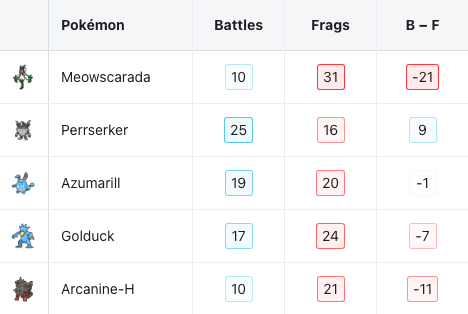
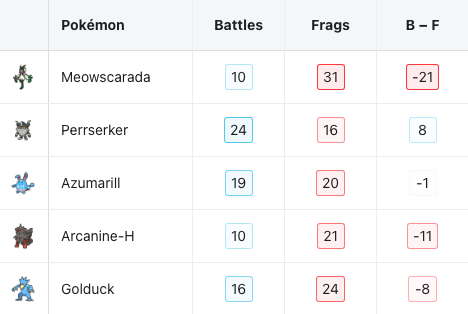
redo tower grunts

diff --git a/site/src/data/guide/sabrina.ts b/site/src/data/guide/sabrina.ts
@@ -603,7 +603,7 @@ const _box9 = getBox({
       nature: "Adamant",
       ability: "Mold Breaker",
       item: "Soft Sand",
-      moves: ["Brick Break", "Iron Head", "Rapid Spin", "Rock Tomb"],
+      moves: ["Brick Break", "Mud-Slap", "Rapid Spin", "Rock Tomb"],
     },
     Incineroar: {
       nature: "Lonely",
@@ -654,8 +654,8 @@ export const pokemonTowerChannelerRuthBattle: Moment = {
             branches: [
               {
                 branches: [
-                  "93% → Meowscarada U-Turn Grimmsnarl",
-                  "7% → Meowscarada U-Turn Grimmsnarl (to 0)",
+                  "86% → Meowscarada U-Turn Grimmsnarl",
+                  "14% → Meowscarada U-Turn Grimmsnarl (to 0)",
                 ],
               },
             ],
@@ -664,7 +664,7 @@ export const pokemonTowerChannelerRuthBattle: Moment = {
         frags: { Meowscarada: 2 },
       },
       {
-        line: "93% → Meowscarada U-Turn Grimmsnarl",
+        line: "86% → Meowscarada U-Turn Grimmsnarl",
         matchups: [
           {
             matchup: ["Grimmsnarl", "Cresselia"],
@@ -683,9 +683,9 @@ export const pokemonTowerChannelerRuthBattle: Moment = {
             matchup: ["Drifblim", "Cresselia"],
             turns: [
               [
+                { player: "{p:Excadrill} switch to {p:Perrserker}" },
                 { opponent: "{o:Drifblim} Calm Mind" },
                 { opponent: "{o:Cresselia} Moonblast {p:Incineroar} to {+:99}" },
-                { player: "{p:Excadrill} Iron Head {o:Cresselia} to {-:175}" },
                 { player: "{p:Incineroar} Darkest Lariat {o:Drifblim} to {=:0}" },
                 { opponent: "{o:Drifblim} fainted" },
               ],
@@ -695,8 +695,12 @@ export const pokemonTowerChannelerRuthBattle: Moment = {
             matchup: ["Cresselia"],
             turns: [
               [
+                { player: "{p:Perrserker} Fake Out {o:Cresselia} to {-:199}" },
+                { opponent: "{o:Cresselia} flinched" },
+                { player: "{p:Incineroar} Darkest Lariat {o:Cresselia} to {-:65}" },
+              ],
+              [
                 { opponent: "{o:Cresselia} Moonblast {p:Incineroar} to {+:9}" },
-                { player: "{p:Excadrill} Iron Head {o:Cresselia} to {-:134}" },
                 { player: "{p:Incineroar} Darkest Lariat {o:Cresselia} to {=:0}" },
                 { opponent: "{o:Cresselia} fainted" },
               ],
@@ -706,7 +710,7 @@ export const pokemonTowerChannelerRuthBattle: Moment = {
         frags: { Excadrill: 1, Incineroar: 2 },
       },
       {
-        line: "7% → Meowscarada U-Turn Grimmsnarl (to 0)",
+        line: "14% → Meowscarada U-Turn Grimmsnarl (to 0)",
         matchups: [
           {
             matchup: ["Grimmsnarl", "Cresselia"],
@@ -767,8 +771,8 @@ const _box10 = getBox({
     Runerigus: {
       nature: "Bold",
       ability: "Shadow Shield",
-      item: "Rindo Berry",
-      moves: ["Disable", "Scary Face", "Shadow Ball", "Shadow Sneak"],
+      item: "Chesto Berry",
+      moves: ["Rest", "Scary Face", "Shadow Ball", "Shadow Sneak"],
     },
     Golduck: {
       nature: "Rash",
@@ -860,7 +864,7 @@ const _box11 = getBox({
       moves: ["Accelerock", "Flamethrower", "Flare Blitz", "Rock Slide"],
     },
     Clodsire: {
-      nature: "Impish",
+      nature: "Careful",
       ability: "Water Absorb",
       item: "Hard Stone",
       moves: ["Bulldoze", "Rock Slide", "Rock Tomb", "Tail Whip"],
@@ -872,7 +876,7 @@ const _box11 = getBox({
       moves: ["Cut", "Flower Trick", "Knock Off", "U-Turn"],
     },
     Tentacruel: {
-      nature: "Calm",
+      nature: "Timid",
       ability: "Clear Body",
       item: "Sitrus Berry",
       moves: ["Acid Spray", "Icy Wind", "Poison Jab", "Scald"],
@@ -933,7 +937,7 @@ export const pokemonTowerGrunt1Battle: Moment = {
               [
                 { player: "{p:Meowscarada} U-Turn {o:Arctovish} to {-:133}" },
                 { player: "{p:Meowscarada} switch to {p:Tentacruel}" },
-                { opponent: "{o:Arctovish} Fishious Rend {p:Tentacruel} to {+:95}" },
+                { opponent: "{o:Arctovish} Fishious Rend {p:Tentacruel} (non-crit) to {+:95}" },
               ],
               [
                 { player: "{p:Tentacruel} switch to {p:Meowscarada}" },
@@ -977,19 +981,13 @@ const _box12 = getBox({
       nature: "Adamant",
       ability: "Mold Breaker",
       item: "Hard Stone",
-      moves: ["Brick Break", "Earthquake", "Iron Head", "Rock Slide"],
+      moves: ["Brick Break", "Earthquake", "Rock Slide", "Rock Tomb"],
     },
-    Golduck: {
-      nature: "Naive",
-      ability: "Neuroforce",
-      item: "Mystic Water",
-      moves: ["Brick Break", "Flip Turn", "Ice Beam", "Psychic"],
-    },
-    Perrserker: {
+    Golisopod: {
       nature: "Adamant",
-      ability: "Battle Armor",
-      item: "Chople Berry",
-      moves: ["Fake Out", "Growl", "Metal Burst", "U-Turn"],
+      ability: "Emergency Exit",
+      item: "Silver Powder",
+      moves: ["First Impress.", "Aerial Ace", "Rock Tomb", "Sucker Punch"],
     },
     Meowscarada: {
       nature: "Adamant",
@@ -998,7 +996,7 @@ const _box12 = getBox({
       moves: ["Brick Break", "Cut", "Play Rough", "Thunder Punch"],
     },
   },
-  team: ["Excadrill", "Golduck", "Perrserker", "Meowscarada"],
+  team: ["Excadrill", "Golisopod", "Meowscarada"],
 });
 
 export const pokemonTowerGrunt2Battle: Moment = {
@@ -1029,21 +1027,10 @@ export const pokemonTowerGrunt2Battle: Moment = {
             matchup: ["Braviary"],
             turns: [
               [
-                { player: "{p:Excadrill} switch to {p:Golduck}" },
-                { player: "{p:Golduck} Spikes to {=:144}" },
-                { opponent: "{o:Braviary} Close Combat {p:Golduck} to {+:48}" },
-              ],
-              [
-                { player: "{p:Golduck} Flip Turn {o:Braviary} to {-:129}" },
-                { player: "{p:Golduck} switch to {p:Perrserker}" },
-                { player: "{p:Perrserker} Spikes to {=:154}" },
-                { opponent: "{o:Braviary} Brave Bird {p:Perrserker} to {+:102}" },
-                { opponent: "{o:Braviary} recoil to {-:115}" },
-              ],
-              [
-                { opponent: "{o:Braviary} Close Combat {p:Perrserker} to {+:32}" },
-                { player: "{p:Perrserker} U-Turn {o:Braviary} to {-:82}" },
-                { player: "{p:Perrserker} switch to {p:Meowscarada}" },
+                { player: "{p:Excadrill} switch to {p:Golisopod}" },
+                { opponent: "{p:Golisopod} Spikes to {=:107}" },
+                { opponent: "{o:Braviary} Close Combat {p:Golisopod} to {+:29}" },
+                { player: "{p:Golisopod} Emergency Exit to {p:Meowscarada}" },
                 { player: "{p:Meowscarada} Spikes to {=:140}" },
               ],
               [
